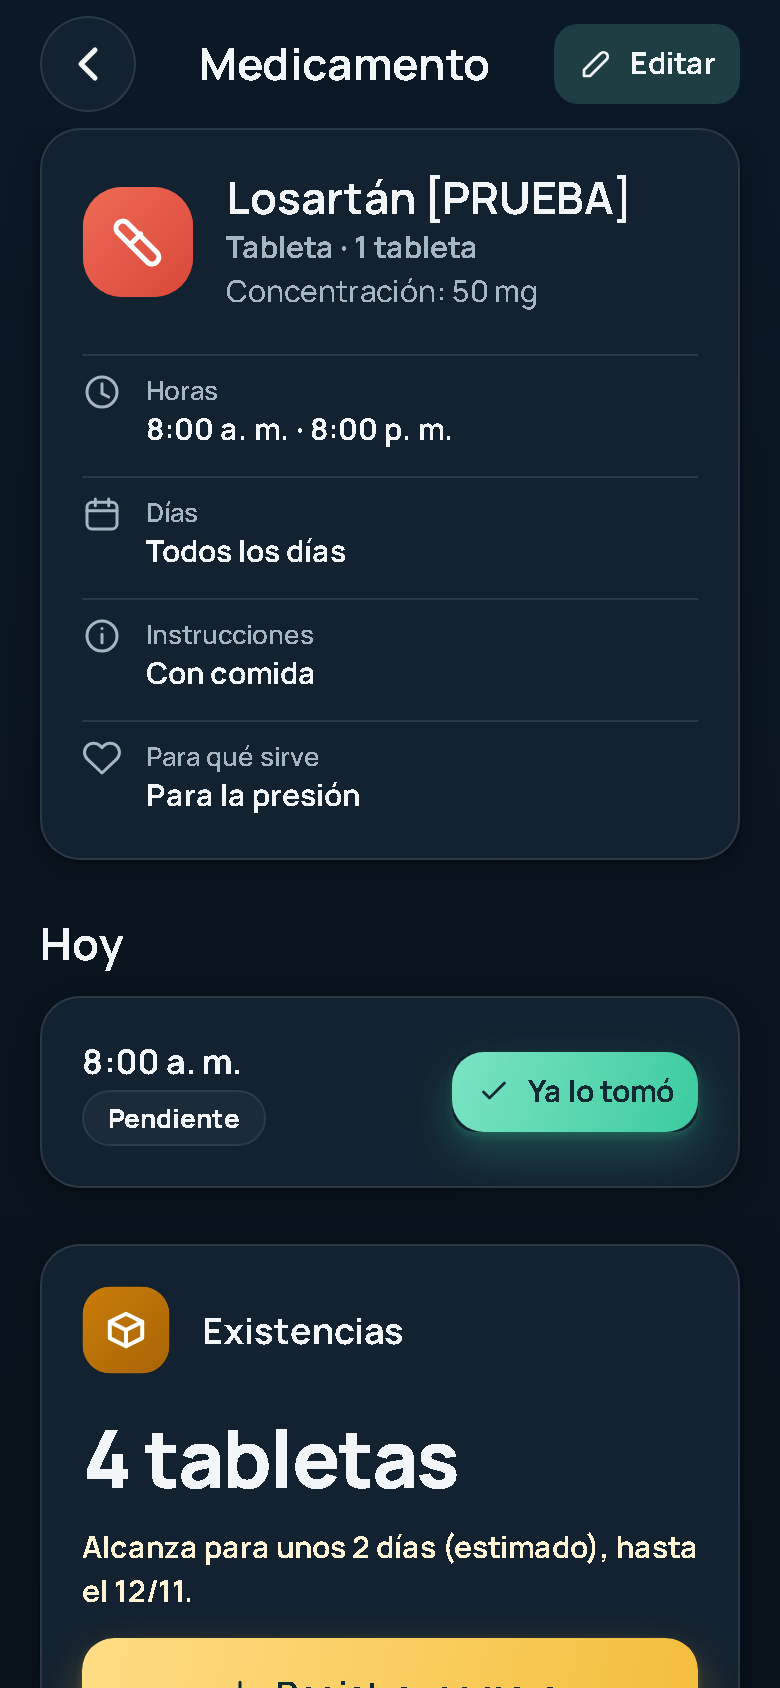
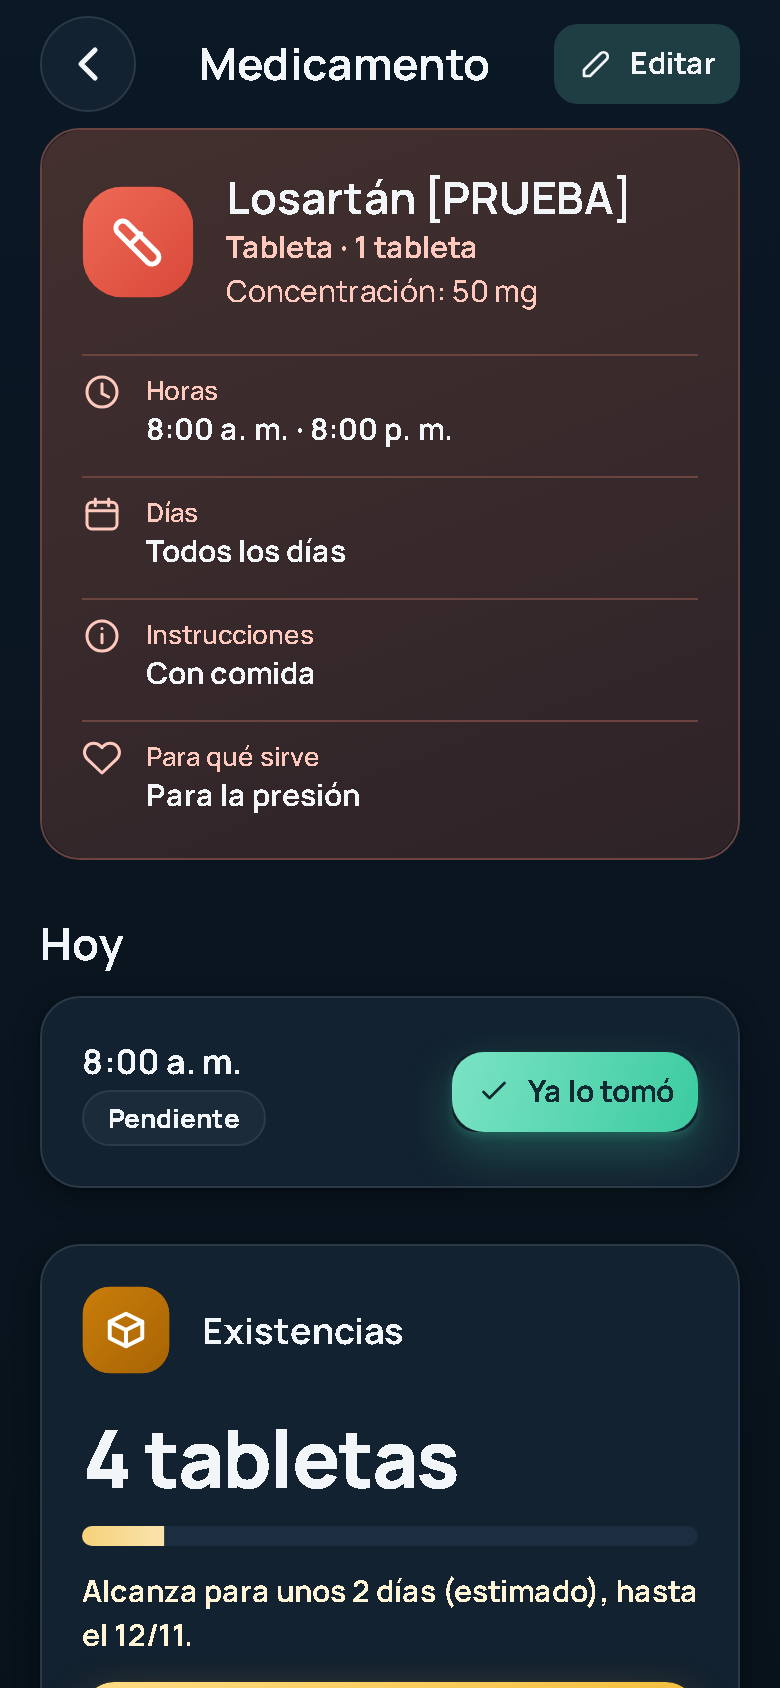
feat(ui-v5): ficha de medicamento en color, historial por día y existencias con barra
Solo presentación: mismas tomas y acciones. El selector por segmentos se
distingue en oscuro y el icono del estado del Inicio vuelve a entrar al cambiar.

diff --git a/src/app/(caregiver)/medication/[id].tsx b/src/app/(caregiver)/medication/[id].tsx
@@ -6,6 +6,7 @@ import { StyleSheet, View } from 'react-native';
 import { AppText } from '@/components/app-text';
 import { Button } from '@/components/button';
 import { Card } from '@/components/card';
+import { ProgressBar } from '@/components/charts';
 import { BottomSheet, ConfirmDialog, useToast } from '@/components/feedback';
 import { Field, Stepper } from '@/components/forms';
 import { Icon, type IconName } from '@/components/icon';
@@ -66,6 +67,12 @@ export default function MedicationDetail() {
   const schedule = med.schedule.kind === 'times' ? scheduleTimes(med.schedule).map(formatClock).join(' · ') : `Cada ${med.schedule.everyHours} h desde ${formatClock(med.schedule.from)}`;
   const runOut = est.runOutDate ? parseISODate(est.runOutDate) : null;
   const low = est.level === 'low' || est.level === 'out';
+  const dom = t.domains.medication;
+  // Solo presentación: las mismas tomas del historial, agrupadas por día para leerlas de un vistazo.
+  const historyDays = [...new Set(history.map((h) => h.date))];
+  const takenCount = history.filter((h) => h.status === 'taken').length;
+  // Barra de existencias: lo que queda frente a un empaque (tope 100 %). Sin tamaño de empaque no hay barra.
+  const stockRatio = med.unitsPerPackage && med.unitsOnHand != null ? Math.min(1, med.unitsOnHand / med.unitsPerPackage) : null;
 
   return (
     <ScreenContainer
@@ -79,15 +86,16 @@ export default function MedicationDetail() {
     >
       <View style={s.stack}>
         {/* Datos: concentración, dosis, horas, días e instrucciones. */}
-        <Card style={s.block}>
+        {/* V5: la ficha vive en el coral de medicamentos; etiquetas e iconos toman el tono del dominio. */}
+        <Card variant="gradient" domain="medication" style={s.block}>
           {med.photoUri ? <Image source={{ uri: med.photoUri }} style={s.photo} contentFit="cover" accessibilityLabel={M.photo} /> : null}
           <View style={s.dataHead}>
             {big ? null : <IconTile icon="meds" domain="medication" size={56} />}
             {/* El nombre es el héroe aquí y no en el encabezado, donde se partía junto a "Editar". */}
             <View style={s.flex}>
-              <AppText variant="h2">{med.name}</AppText>
-              <AppText variant="secondaryStrong" color={med.paused ? t.status.attention.text : t.c.muted}>{`${med.paused ? M.paused : M.forms[med.form]} · ${doseText(med)}`}</AppText>
-              {med.strength ? <AppText variant="secondary" color={t.c.muted}>{`${M.strength}: ${med.strength}`}</AppText> : null}
+              <AppText variant="h2" color={dom.text}>{med.name}</AppText>
+              <AppText variant="secondaryStrong" color={med.paused ? t.status.attention.text : dom.muted}>{`${med.paused ? M.paused : M.forms[med.form]} · ${doseText(med)}`}</AppText>
+              {med.strength ? <AppText variant="secondary" color={dom.muted}>{`${M.strength}: ${med.strength}`}</AppText> : null}
             </View>
           </View>
           <Fact icon="clock" label={M.schedule} value={schedule} />
@@ -135,6 +143,7 @@ export default function MedicationDetail() {
           ) : (
             <>
               <AppText variant="heroL" style={s.tabular}>{`${String(med.unitsOnHand).replace('.', ',')} ${stockUnit(med, med.unitsOnHand ?? 0)}`}</AppText>
+              {stockRatio !== null ? <ProgressBar ratio={stockRatio} color={low ? t.status.attention.accent : t.c.success} height={10} label={`${M.stock}: ${Math.round(stockRatio * 100)} %`} /> : null}
               <AppText variant={low ? 'secondaryStrong' : 'secondary'} color={low ? t.status.attention.text : t.c.muted}>
                 {est.level === 'out' ? M.outOfStock : est.daysLeft !== null && runOut ? M.estimate(est.daysLeft, `${runOut.getDate()}/${runOut.getMonth() + 1}`) : ''}
               </AppText>
@@ -155,20 +164,31 @@ export default function MedicationDetail() {
 
         {history.length ? (
           <Card style={s.block}>
-            <AppText variant="h3">{M.history}</AppText>
-            {history.map((h) => {
-              const icon: IconName = h.status === 'taken' ? 'check' : h.status === 'skipped' ? 'close' : 'clock';
-              const color = h.status === 'taken' ? t.c.success : h.status === 'skipped' ? t.c.danger : t.c.muted;
-              return (
-                <View key={h.id} style={s.doseRow} accessible accessibilityLabel={`${formatRelativeDay(h.date, today)}, ${formatClock(h.time)}: ${M.statuses[h.status]}`}>
-                  <View style={[s.histIcon, { borderColor: color }]}>
-                    <Icon name={icon} color={color} size={18} strokeWidth={2.6} />
-                  </View>
-                  <AppText variant="secondary" style={s.flex}>{`${formatRelativeDay(h.date, today)} · ${formatClock(h.time)}`}</AppText>
-                  <AppText variant="captionStrong" color={color}>{M.statuses[h.status]}</AppText>
+            {/* V5: resumen arriba y un bloque por día; cada toma es una pastilla con icono, hora y palabra (nunca solo color). */}
+            <View style={s.histHead}>
+              <AppText variant="h3" style={s.flex}>{M.history}</AppText>
+              <View style={[s.chip, s.histSummary, { backgroundColor: t.status.ok.bg, borderColor: t.status.ok.border }]}>
+                <AppText variant="captionStrong" color={t.status.ok.text} style={s.tabular}>{M.historySummary(takenCount, history.length)}</AppText>
+              </View>
+            </View>
+            {historyDays.map((day) => (
+              <View key={day} style={s.histDay}>
+                <AppText variant="captionStrong" color={t.c.muted}>{formatRelativeDay(day, today)}</AppText>
+                <View style={s.histPills}>
+                  {history.filter((h) => h.date === day).map((h) => {
+                    const icon: IconName = h.status === 'taken' ? 'check' : h.status === 'skipped' ? 'close' : 'clock';
+                    const look = h.status === 'taken' ? t.status.ok : h.status === 'skipped' ? t.status.action : t.status.none;
+                    return (
+                      <View key={h.id} style={[s.histPill, { backgroundColor: look.bg, borderColor: look.border }]} accessible accessibilityLabel={`${formatRelativeDay(h.date, today)}, ${formatClock(h.time)}: ${M.statuses[h.status]}`}>
+                        <Icon name={icon} color={look.accent} size={16} strokeWidth={2.8} />
+                        <AppText variant="captionStrong" color={look.text} style={s.tabular}>{formatClock(h.time)}</AppText>
+                        <AppText variant="caption" color={look.muted}>{M.statuses[h.status]}</AppText>
+                      </View>
+                    );
+                  })}
                 </View>
-              );
-            })}
+              </View>
+            ))}
           </Card>
         ) : null}
 
@@ -228,11 +248,11 @@ function Fact({ icon, label, value }: { icon: IconName; label: string; value: st
   const t = useTheme();
   const s = useStyles();
   return (
-    <View style={s.fact} accessible accessibilityLabel={`${label}: ${value}`}>
-      <Icon name={icon} color={t.c.muted} size={20} />
+    <View style={[s.fact, t.hc ? null : { borderTopColor: t.tones.coral.soft }]} accessible accessibilityLabel={`${label}: ${value}`}>
+      <Icon name={icon} color={t.domains.medication.muted} size={20} />
       <View style={s.flex}>
-        <AppText variant="caption" color={t.c.muted}>{label}</AppText>
-        <AppText variant="secondaryStrong">{value}</AppText>
+        <AppText variant="caption" color={t.domains.medication.muted}>{label}</AppText>
+        <AppText variant="secondaryStrong" color={t.domains.medication.text}>{value}</AppText>
       </View>
     </View>
   );
@@ -263,7 +283,10 @@ const useStyles = makeStyles((t) =>
     divider: { paddingTop: spacing.sm, borderTopWidth: t.borderWidth, borderTopColor: t.c.border },
     r8: { flexDirection: 'row', alignItems: 'center', gap: spacing.sm, padding: spacing.md },
     chip: { alignSelf: 'flex-start', minHeight: 28, justifyContent: 'center', paddingHorizontal: spacing.sm, borderRadius: radius.pill, borderWidth: 1, marginTop: 2 },
-    doseRow: { flexDirection: 'row', alignItems: 'center', gap: spacing.sm, minHeight: 48 },
-    histIcon: { width: 32, height: 32, borderRadius: 16, borderWidth: 2, alignItems: 'center', justifyContent: 'center' },
+    histHead: { flexDirection: 'row', flexWrap: 'wrap', alignItems: 'center', gap: spacing.sm },
+    histSummary: { marginTop: 0 },
+    histDay: { gap: spacing.xs, paddingTop: spacing.sm, borderTopWidth: t.borderWidth, borderTopColor: t.c.border },
+    histPills: { flexDirection: 'row', flexWrap: 'wrap', gap: spacing.xs },
+    histPill: { flexDirection: 'row', alignItems: 'center', gap: 6, minHeight: 36, paddingHorizontal: spacing.sm, paddingVertical: spacing.xxs, borderRadius: radius.pill, borderWidth: 1 },
   }),
 );

diff --git a/src/features/summary/status.tsx b/src/features/summary/status.tsx
@@ -6,6 +6,7 @@
  */
 import { useEffect, useMemo } from 'react';
 import { Linking, StyleSheet, useWindowDimensions, View } from 'react-native';
+import Animated, { ZoomIn, useReducedMotion } from 'react-native-reanimated';
 
 import { AppText } from '@/components/app-text';
 import { Button } from '@/components/button';
@@ -72,12 +73,14 @@ export function StatusHero({ elder, phone }: { elder: Elder; phone?: string }) {
   const look = LOOK[st.level];
   const kind: StatusKind = st.help ? 'action' : look.kind;
   const tone = t.status[kind];
+  const reduce = useReducedMotion();
   return (
     <Card variant="status" status={kind} style={s.hero}>
       <View accessible accessibilityRole="summary" accessibilityLabel={`${S.levels[st.level]}. ${st.reason}`} accessibilityLiveRegion="polite" style={s.heroBody}>
-        <View style={[s.heroIcon, { backgroundColor: t.hc ? t.c.bg : tone.accent }, t.hc && t.hairline]}>
+        {/* V5: al cambiar de estado el icono vuelve a entrar con un resorte corto: el hijo nota que algo cambió. */}
+        <Animated.View key={kind} entering={reduce ? undefined : ZoomIn.springify().damping(13)} style={[s.heroIcon, { backgroundColor: t.hc ? t.c.bg : tone.accent }, t.hc && t.hairline]}>
           <Icon name={st.help ? 'shield' : look.icon} color={t.hc ? t.c.text : t.dark ? t.c.bg : '#FFFFFF'} size={30} strokeWidth={2.4} />
-        </View>
+        </Animated.View>
         <AppText variant="display" color={tone.text} maxScale={1.4}>
           {S.levels[st.level]}
         </AppText>

diff --git a/src/components/forms.tsx b/src/components/forms.tsx
@@ -519,7 +519,8 @@ const useStyles = makeStyles((t) =>
       bottom: 4,
       left: 4,
       borderRadius: radius.pill,
-      backgroundColor: t.hc ? t.c.text : t.c.surface,
+      // En oscuro la superficie es MÁS oscura que el riel y la opción elegida casi no se distinguía: sube un nivel.
+      backgroundColor: t.hc ? t.c.text : t.dark ? t.tones.slate.soft : t.c.surface,
       ...t.shadow.soft,
     },
     scrollSegment: { gap: spacing.xs, padding: 4, borderRadius: radius.pill, backgroundColor: t.c.surface2 },

diff --git a/src/i18n/es-CO.ts b/src/i18n/es-CO.ts
@@ -528,6 +528,7 @@ export const esCO = {
     held: 'Retenida: confirma antes',
     schedule: 'Horas',
     history: 'Últimas tomas',
+    historySummary: (taken: number, total: number) => `${taken} de ${total} tomadas`,
   },
   scan: {
     title: 'Escanear envase',
